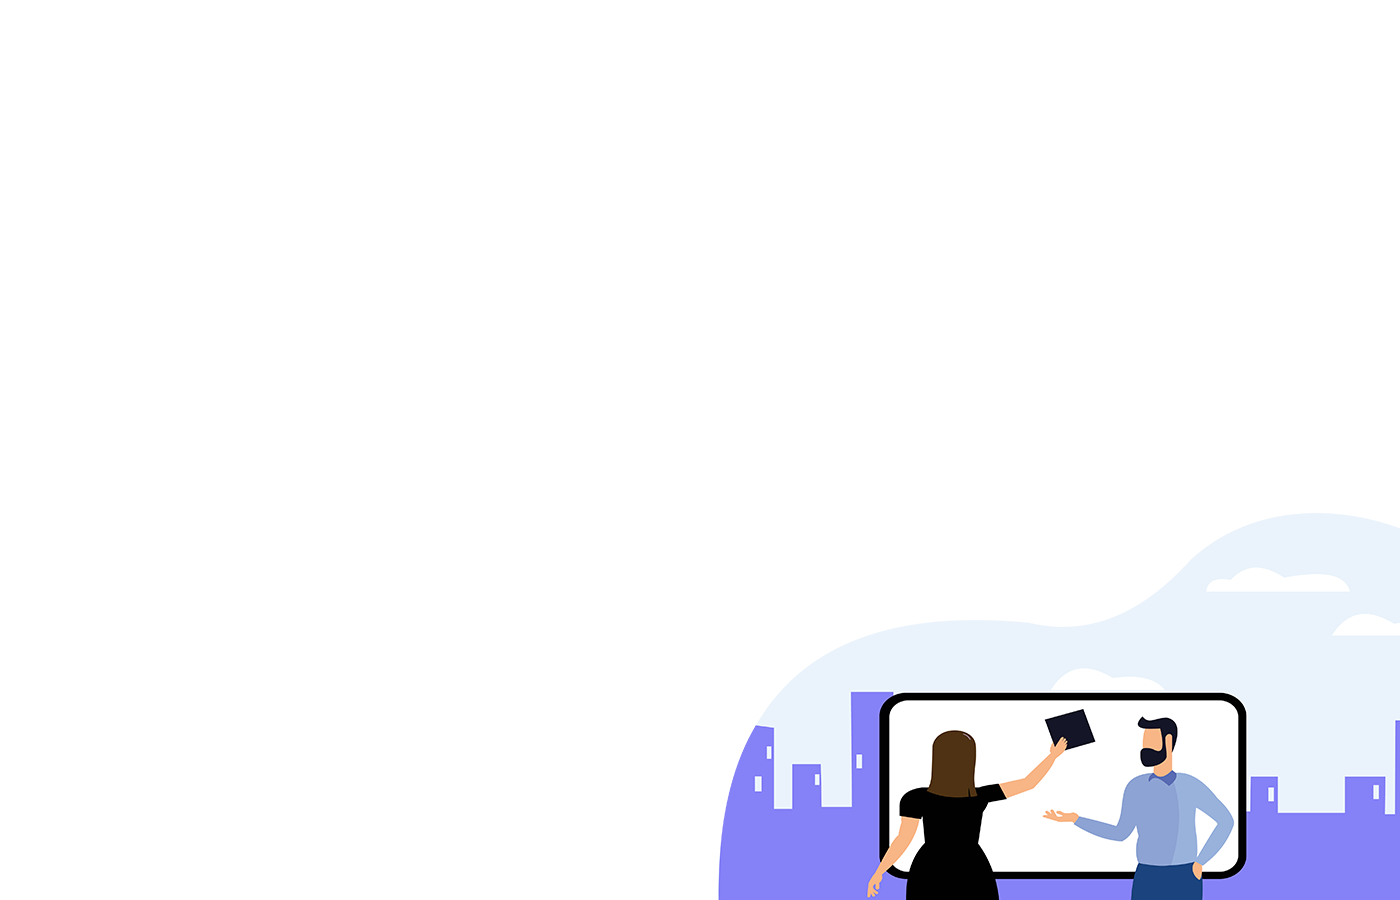
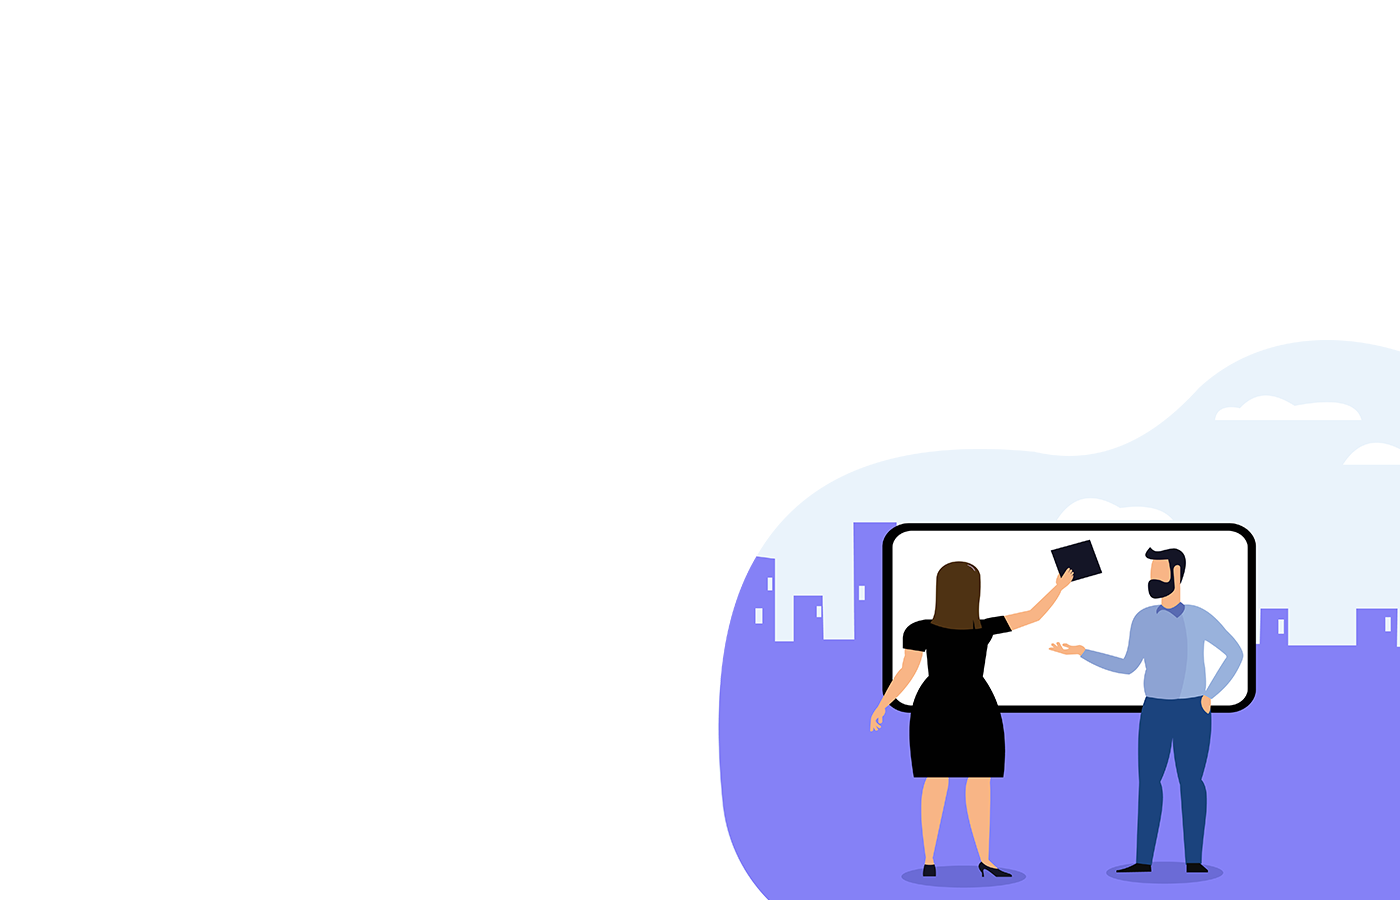
færdiggjort side

Changed region(s): [[0.4914, 0.56, 1.0, 1.0]]

diff --git a/css/index.css b/css/index.css
@@ -1,3 +1,3 @@
-html{scroll-behavior:smooth}.fas{font-size:100px;color:white;margin-top:10px;margin-bottom:10px}h1{color:black}#spin{color:black}#spin:after{content:"";animation:spin 20s linear infinite}@keyframes spin{0%{content:"druer"}10%{content:"dadler"}20%{content:"drommedarer"}30%{content:"delfiner"}40%{content:"drager"}50%{content:"diskokugler"}60%{content:"dinosaurere"}70%{content:"dimsedutter"}80%{content:"damesko"}90%{content:"danseundervisning"}100%{content:"druer"}}html,body{overflow-x:hidden}.button__text{color:white}.icons__top{background-color:#8581F6;-moz-hyphens:auto;-ms-hyphens:auto;-webkit-hyphens:auto}.text__color{color:white}.flat__art__small{display:inline;margin-top:15px;margin-bottom:15px}.flat__art__big{display:none}.icon__text{color:white;text-align:center;margin-top:20px;margin-bottom:20px;font-weight:700}.icon__header__text{font-size:50px}.text__weight{font-weight:700}.space__divider{margin-top:4rem}.middle__icon{margin-top:50px;margin-bottom:50px}body{position:relative}.hero__text{display:flex;justify-content:center;align-items:center;text-align:center;flex-direction:column;height:calc(100vh - 70px)}.hero__section{background-image:url("../img/hero-mobile.png");background-size:cover;background-position:-1000px}.header__h1{z-index:1}.arrow-container{width:25px;animation:bounce 1600ms infinite cubic-bezier(0.445, 0.05, 0.55, 0.95);cursor:pointer;height:20px;padding-top:50px;margin:auto}.arrow-down{height:6px;background:black;transform:rotate(45deg);transform-origin:0 0;border-radius:5px}.arrow-down:after{content:'';position:absolute;width:100%;height:100%;bottom:0;left:100%;border-radius:5px;background:black;transform:rotate(-90deg);transform-origin:0% 100%}@keyframes bounce{50%{transform:translateY(-15px)}}@media screen and (min-width: 480px){.hero__section{background-position:-800px}}@media screen and (min-width: 768px){.flat__art__big{display:inline}.flat__art__small{display:none}.middle__icon{margin-top:0px;margin-bottom:0px}.hero__section{background-position:-650px}}@media screen and (min-width: 992px){.arrow-container{margin-left:150px}.hero__text{align-items:unset;text-align:unset}.hero__section{background-image:url("../img/hero.png");background-size:cover;background-position:-200px}}@media screen and (min-width: 1400px){.hero__section{background-position:0}}
+html{scroll-behavior:smooth}.fas{font-size:100px;color:white;margin-top:10px;margin-bottom:10px}h1{color:black}#spin{color:black}#spin:after{content:"";animation:spin 20s linear infinite}@keyframes spin{0%{content:"druer"}10%{content:"dadler"}20%{content:"dromedarer"}30%{content:"delfiner"}40%{content:"drager"}50%{content:"diskokugler"}60%{content:"dinosaurer"}70%{content:"dimsedutter"}80%{content:"damesko"}90%{content:"dyner"}100%{content:"druer"}}html,body{overflow-x:hidden}.hero__header__text p{line-height:3rem}.button__text{color:white}.icons__top{background-color:#8581F6;-moz-hyphens:auto;-ms-hyphens:auto;-webkit-hyphens:auto}.text__color{color:white}.flat__art__small{display:inline;margin-top:15px;margin-bottom:15px}.flat__art__big{display:none}.icon__text{color:white;text-align:center;margin-top:20px;margin-bottom:20px;font-weight:700}.icon__header__text{font-size:50px}.text__weight{font-weight:700}.space__divider{margin-top:4rem}.middle__icon{margin-top:50px;margin-bottom:50px}body{position:relative}.hero__text{display:flex;justify-content:center;align-items:center;text-align:center;flex-direction:column;height:calc(100vh - 70px);padding-bottom:28rem}.hero__section{background-image:url("../img/hero-mobile.png");background-size:cover;background-position:-750px;z-index:1000;background-repeat:no-repeat}.header__h1{z-index:1}.arrow-container{width:25px;animation:bounce 1600ms infinite cubic-bezier(0.445, 0.05, 0.55, 0.95);cursor:pointer;height:20px;padding-top:50px;margin:auto}.arrow-down{height:6px;background:black;transform:rotate(45deg);transform-origin:0 0;border-radius:5px}.arrow-down:after{content:'';position:absolute;width:100%;height:100%;bottom:0;left:100%;border-radius:5px;background:black;transform:rotate(-90deg);transform-origin:0% 100%}@keyframes bounce{50%{transform:translateY(-15px)}}@media screen and (min-width: 480px){.hero__section{background-position:-500px}}@media screen and (min-width: 768px){.flat__art__big{display:inline}.flat__art__small{display:none}.middle__icon{margin-top:0px;margin-bottom:0px}.hero__section{background-position:-300px}}@media screen and (min-width: 992px){.arrow-container{margin-left:150px}.hero__text{align-items:unset;text-align:unset}.hero__header__text p{line-height:4rem}.hero__section{background-image:url("../img/hero.png");background-size:cover;background-position:0}.hero__text{padding-bottom:unset}}@media screen and (min-width: 1400px){.hero__section{background-position:0}}
 
 /*# sourceMappingURL=index.css.map */

diff --git a/css/index.scss b/css/index.scss
@@ -23,18 +23,21 @@ h1  {
 @keyframes spin {
   0% { content:"druer";}
   10% { content:"dadler";}
-  20% { content:"drommedarer";}
+  20% { content:"dromedarer";}
   30% { content:"delfiner";}
   40% { content:"drager";}
   50% { content:"diskokugler"; }
-  60% { content:"dinosaurere"; }
+  60% { content:"dinosaurer"; }
   70% { content:"dimsedutter"; }
   80% { content:"damesko"; }
-  90% { content: "danseundervisning"; }
+  90% { content: "dyner"; }
   100% { content: "druer"; }
 }
 html, body { overflow-x: hidden; }
 
+.hero__header__text p {
+  line-height: 3rem;
+}
 .button__text {
   color: white;
 }
@@ -96,12 +99,15 @@ body {
   text-align: center;
   flex-direction: column;
   height: calc(100vh - 70px);
+  padding-bottom: 28rem;
 }
 
 .hero__section {
   background-image: url("../img/hero-mobile.png");
   background-size: cover;
-  background-position: -1000px;
+  background-position: -750px;
+  z-index: 1000;
+  background-repeat: no-repeat;
 }
 
 .header__h1 {
@@ -147,7 +153,7 @@ body {
 
 @media screen and (min-width: 480px) {
   .hero__section {
-    background-position: -800px;
+    background-position: -500px;
   }
 }
 
@@ -164,7 +170,7 @@ body {
   }
 
   .hero__section {
-    background-position: -650px;
+    background-position: -300px;
   }
 }
 
@@ -178,10 +184,18 @@ body {
     text-align: unset;
   }
 
+  .hero__header__text p {
+    line-height: 4rem;
+  }
+
   .hero__section {
     background-image: url('../img/hero.png');
     background-size: cover;
-    background-position: -200px;
+    background-position: 0;
+  }
+
+  .hero__text {
+    padding-bottom: unset;
   }
 }
 

diff --git a/css/kontakt.scss b/css/kontakt.scss
@@ -1,3 +1,7 @@
+.kontakt {
+  height: 100vh;
+}
+
 .map-responsive{
 
   overflow:hidden;
@@ -14,11 +18,19 @@
 
 }
 
+footer {
+  margin-top: 450px;
+}
+
 @media screen and (min-width: 768px){
 
   .map-responsive{
     padding-bottom: 45%;
 
+  }
+
+  footer {
+    margin-top: unset;
   }
 
 }

diff --git a/css/kompetencer.scss b/css/kompetencer.scss
@@ -1,20 +1,10 @@
 .kompe__header {
   text-align: center;
-  font-weight: 600;
-}
-
-.small__img {
-  height: auto;
-  width: 10%;
 }
 
 .img__header__komp {
   height: auto;
   border-radius: 20px;
-}
-
-h1 {
-  font-weight: 700;
 }
 
 .show__divider {

diff --git a/kompetencer.php b/kompetencer.php
@@ -12,6 +12,7 @@
     <link href="css/bootstrap.css" rel="stylesheet" type="text/css">
     <link href="css/styles.css" rel="stylesheet" type="text/css">
     <link href="css/index.css" rel="stylesheet" type="text/css">
+    <link href="css/kompetencer.css" rel="stylesheet" type="text/css">
     <link rel="preconnect" href="https://fonts.gstatic.com">
     <link href="https://fonts.googleapis.com/css2?family=Raleway&display=swap" rel="stylesheet">
     <script src="https://kit.fontawesome.com/627f0b1d73.js" crossorigin="anonymous"></script>
@@ -33,7 +34,7 @@
 
 <div class="container mt-5">
 
-    <h1 class="kompe__header mb-5 d-flex justify-content-center">Holdets Kompetencer</h1>
+    <h1 class="kompe__header mb-5 d-flex justify-content-center">Holdets kompetencer</h1>
 
 </div>
 <div class="space__divider"></div>
@@ -42,9 +43,9 @@
     <div class="row">
         <div class="col-lg-4 col-md-12 offset-lg-2 my-auto me-2">
             <h1 class="mb-2 display-5 fw-bold">Hvad end du har i tankerne...</h1>
-            <p class="mb-3">…kan vi sørge for.
-                <br>Vi kan ikke slå din græsplæne, men vi kan til gengæld hjælpe dig med at realisere dine tanker og idéer inden for den digitale og analoge verden</p>
-            <button type="button" class="btn btn-primary btn-lg px-4 me-md-2 mb-5"><a href="omos.php"><p class="button__text">Mød holdet</p></a></button>
+            <p class="mb-3 fs-5">…kan vi sørge for.
+                <br>Vi kan ikke slå din græsplæne, men vi kan til gengæld hjælpe dig med at realisere dine tanker inden for den digitale og analoge verden</p>
+            <button type="button" class="btn btn-primary btn-lg px-4 me-md-2 mb-5"><a href="omos.php" class="text-decoration-none"><p class="button__text">Mød holdet</p></a></button>
         </div>
         <div class="col-lg-4 col-md-12">
             <img src="img/exampleimg.svg" class="img__header__komp" alt="">
@@ -59,16 +60,16 @@
         <div class="col-lg-4 offset-lg-2 mb-3">
             <div class="d-flex align-items-center mb-3">
             <img src="img/Asset%2018.svg" class="small__img" alt="SoMe Strategi" style="height: 60px;">
-            <h1 class="ms-3">Grafisk Design</h1>
+            <h1 class="ms-3">Grafisk design</h1>
             </div>
-            <p class="w-75 mb-5">Posters, flyers, logoer, visitkort, brochurer og alt andet grafisk sørger vi for. Vi visualiserer dine idéer om end det er digitalt eller til print.</p>
+            <p class="w-75 fs-5 mb-5">Posters, flyers, logoer, visitkort, brochurer og alt andet grafisk sørger vi for. Vi visualiserer dine tanker om end det er digitalt eller til print.</p>
         </div>
         <div class="col-lg-4 mb-3">
             <div class="d-flex align-items-center mb-3">
             <img src="img/Asset%2016.svg" class="small__img" alt="SoMe Strategi" style="height: 60px;">
             <h1 class="ms-3">Webudvikling</h1>
             </div>
-            <p class="w-75">Få din hjemmeside; designet, udviklet og raffineret fra top til bund. - Inkluderer også SEO der sørger for din side får flere besøgende og højere troværdighed.</p>
+            <p class="w-75 fs-5">Få din hjemmeside; designet, udviklet og raffineret fra top til bund - Inkluderer også SEO, der sørger for din side får flere besøgende og højere troværdighed.</p>
         </div>
     </div>
 </div>
@@ -81,15 +82,15 @@
                 <img src="img/Asset%2020.svg" class="small__img" alt="SoMe Strategi" style="height: 60px;">
                 <h1 class="ms-3">SoMe strategi</h1>
             </div>
-            <p class="w-75 mb-5">Opslagstekst- og grafik, foto eller video sikrer din side mere trafik og interaktioner.
-                En contentplan og social mediestrategi hjælper dig med at holde styr på hvor og hvornår din opslag skal lægges ud for maksimal effekt.</p>
+            <p class="w-75 fs-5 mb-5">Opslagstekst og grafik, foto eller video sikrer din side mere trafik og interaktioner.
+                En contentplan og social mediestrategi hjælper dig med at holde styr på hvor og hvornår dit opslag skal lægges ud for maksimal effekt.</p>
         </div>
         <div class="col-lg-4 mb-3">
             <div class="d-flex align-items-center mb-3">
                 <img src="img/Asset%2022.svg" class="small__img" alt="SoMe Strategi" style="height: 60px;">
-                <h1 class="ms-3">Foto & Video</h1>
+                <h1 class="ms-3">Foto & video</h1>
             </div>
-            <p class="w-75">Vi optager video, tager billeder - både de traditionelle og de anderledes. Vi fanger de specielle vinkler og bruger det visuelle i kombination med det skrevne ord.</p>
+            <p class="w-75 fs-5">Vi optager video, tager billeder - både de traditionelle og de anderledes. Vi fanger de specielle vinkler og bruger det visuelle i kombination med det skrevne ord.</p>
         </div>
     </div>
 </div>

diff --git a/kontakt.php b/kontakt.php
@@ -55,18 +55,22 @@
         </div>
         <div class="kontakt__right-col col-md-5 pt-5">
             <div class="kontakt__telefon d-flex align-items-center">
+                <a href="tel:12345678">
                 <div class="kontakt__telefon-ikon fa-stack fa-lg my-2 me-3">
                     <i class="fas fa-circle fa-stack-2x text-primary m-0"></i>
                     <i class="fas fa-phone fa-stack-1x fa-sm fa-inverse m-0"></i>
                 </div>
+                </a>
                 <h3 class="kontakt__telefon-nummer fw-bold">+45 1234 5678</h3>
             </div>
 
             <div class="kontakt__email d-flex align-items-center">
+                <a href="mailto:kontakt@define.dk">
                 <div class="kontakt__telefon-ikon fa-stack fa-lg my-2 me-3">
                     <i class="fas fa-circle fa-stack-2x text-primary m-0"></i>
                     <i class="fas fa-envelope fa-stack-1x fa-sm fa-inverse m-0"></i>
                 </div>
+                </a>
                 <h3 class="kontakt__telefon-nummer fw-bold">kontakt@define.dk</h3>
             </div>
             <div class="map-responive pe-5 py-5 d-none d-xl-block">
@@ -78,7 +82,7 @@
     <div class="kontakt__map d-xl-none">
         <div class="kontakt__map__container map-responsive mt-4 mb-5 px-md-5">
             <h2 class="text-center mt-4 mb-3">Her befinder vi os!</h2>
-            <div class="map-responive">
+            <div class="map-responsive">
                 <iframe src="https://www.google.com/maps/embed?pb=!1m18!1m12!1m3!1d18410.89751107352!2d11.849499440517985!3d54.773600039370365!2m3!1f0!2f0!3f0!3m2!1i1024!2i768!4f13.1!3m3!1m2!1s0x47ad30fee6c73863%3A0xcbdeb140b0876cc!2sSlotsbryggen%2C%204800%20Nyk%C3%B8bing%20Falster!5e0!3m2!1sen!2sdk!4v1634202942912!5m2!1sen!2sdk" width="600" height="450" style="border:0;" allowfullscreen="" loading="lazy"></iframe>
             </div>
         </div>

diff --git a/index.php b/index.php
@@ -1,5 +1,5 @@
 <!DOCTYPE html>
-<html lang="da" class="h-100">
+<html lang="da" class="h-100" style="scroll-behavior: smooth">
 <head>
     <meta charset="utf-8">
 
@@ -32,7 +32,7 @@
 <section class="container-fluid hero__section">
     <?php include 'includes/menu.php';?>
     <div class="container hero__text">
-        <h1 class="display-4 fw-bold lh-1 mb-3"><p>Vi sælger ikke <br><span id="spin"></span></p></h1>
+        <h1 class="display-4 fw-bold lh-1 mb-3 hero__header__text"><p>Vi sælger ikke <br><span id="spin"></span></p></h1>
         <div class="button__container">
         <a href="kompetencer.php" class="text-decoration-none"><button type="button" class="btn btn-primary btn-lg px-4 me-md-2 mt-3 d-block"><p class="button__text">Vi sælger digitale løsninger</p></button></a>
             <div class="arrow-container">
@@ -77,8 +77,8 @@
                 <p class="mb-4 fs-5">Vi er et team af kreative fagnørder med forskellige kompetencer og personligheder. Vi er stolte af det! Her hos Define skaber vi løsninger der virker, både nu og i fremtiden.</p>
                 <a href="omos.php"><button type="button" class="btn btn-primary btn-lg px-4 me-md-2"><p class="button__text">Læs om os</p></button></a>
             </div>
-            <div class="col-lg-3 col-md-5 flat__art__big justify-content-start">
-                <img src="img/flat%20art.jpg" alt="">
+            <div class="col-lg-4 col-md-5 flat__art__big justify-content-start">
+                <img src="img/flat%20art.jpg" alt="" >
             </div>
         </div>
     </div>

diff --git a/includes/footer.php b/includes/footer.php
@@ -2,14 +2,14 @@
     <div class="row">
         <div class="col-12 col-sm-6">
             <div class="d-flex justify-content-center mt-4">
-                <div class="footer__icon">
-                    <a href="#">
-                        <img src="img/facebookicon.png" alt="facebook">
+                <div class="footer__icon me-4">
+                    <a href="https://www.facebook.com/Define-Reklame-og-Webbureau-100905855718849" target="_blank">
+                        <i class="fab fa-facebook-square text-white fa-3x"></i>
                     </a>
                 </div>
                 <div class="footer__icon">
-                    <a href="#">
-                        <img src="img/linkedinicon.png" alt="LinkedIn">
+                    <a href="https://www.linkedin.com/company/define-reklame-og-webbureau/about/" target="_blank">
+                        <i class="fab fa-linkedin text-white fa-3x"></i>
                     </a>
                 </div>
             </div>
@@ -25,7 +25,7 @@
             </div>
         </div>
         <div class="col-sm-6 d-none d-sm-block d-flex align-self-center mt-4">
-            <img class="footer__logo mx-auto" src="img/logo-white.png" alt="define logo">
+            <img class="footer__logo mx-auto" src="img/logo-hvid.svg" alt="define logo" style="width: 200px;">
         </div>
     </div>
         <p class="copyright text-center text-white my-3">© Define 2021</p>

diff --git a/includes/menu.php b/includes/menu.php
@@ -1,7 +1,7 @@
 <nav class="navbar navbar-expand-lg navbar-light">
     <div class="container">
         <a class="navbar-brand" href="index.php">
-            <img class="me-5 nav__logo" src="img/logo.png" alt="logo af define - dit digitale udtryk">
+            <img class="me-5 nav__logo" src="img/logo.svg" alt="logo af define - dit digitale udtryk" style="width: 150px;">
         </a>
         <button class="navbar-toggler" type="button" data-bs-toggle="collapse" data-bs-target="#navbarNavDropdown" aria-controls="navbarNavDropdown" aria-expanded="false" aria-label="Toggle navigation">
             <span class="navbar-toggler-icon"></span>
